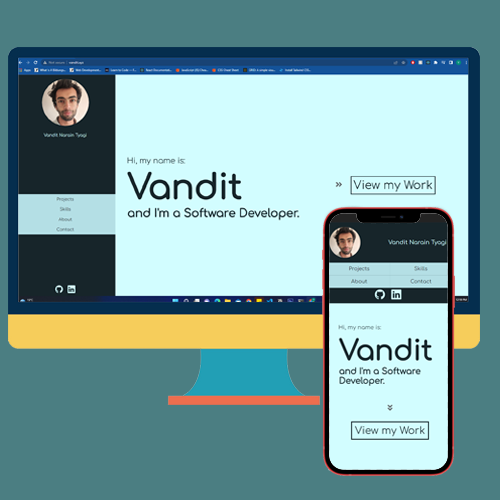
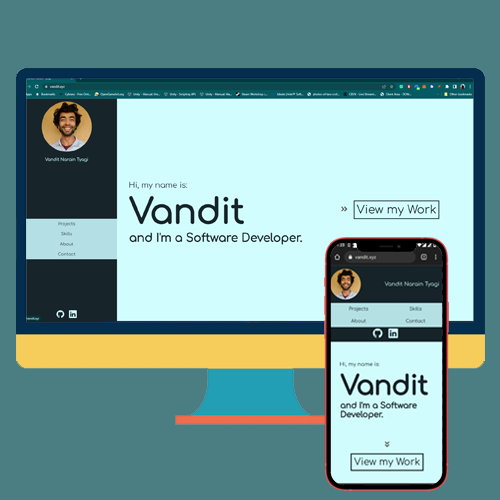
v1.0

diff --git a/public/index.html b/public/index.html
@@ -9,35 +9,15 @@
       name="description"
       content="Portfolio website Vandit Narain Tyagi"
     />
-    <link rel="apple-touch-icon" href="%PUBLIC_URL%/logo192.png" />
-    <!--
-      manifest.json provides metadata used when your web app is installed on a
-      user's mobile device or desktop. See https://developers.google.com/web/fundamentals/web-app-manifest/
-    -->
+    <link rel="apple-touch-icon" href="%PUBLIC_URL%/favicon.ico" />
+  
     <link rel="manifest" href="%PUBLIC_URL%/manifest.json" />
-    <!--
-      Notice the use of %PUBLIC_URL% in the tags above.
-      It will be replaced with the URL of the `public` folder during the build.
-      Only files inside the `public` folder can be referenced from the HTML.
-
-      Unlike "/favicon.ico" or "favicon.ico", "%PUBLIC_URL%/favicon.ico" will
-      work correctly both with client-side routing and a non-root public URL.
-      Learn how to configure a non-root public URL by running `npm run build`.
-    -->
+   
     <title>Vandit Narain Tyagi</title>
   </head>
   <body>
     <noscript>You need to enable JavaScript to run this app.</noscript>
     <div id="root"></div>
-    <!--
-      This HTML file is a template.
-      If you open it directly in the browser, you will see an empty page.
-
-      You can add webfonts, meta tags, or analytics to this file.
-      The build step will place the bundled scripts into the <body> tag.
-
-      To begin the development, run `npm start` or `yarn start`.
-      To create a production bundle, use `npm run build` or `yarn build`.
-    -->
+    
   </body>
 </html>

diff --git a/src/Components/About/index.js b/src/Components/About/index.js
@@ -10,7 +10,7 @@ function About() {
         <h1>Welcome to my story</h1>
         <div className='about-text'>
           <p>
-            I come from India. My passion for developing software started at a very early age. Video games fascinated me and I was curious how does it all go together behind the screen. It was the interactivity, that games provided, which hooked me.
+            I come from India. My passion for developing software started at a very early age. Video games fascinated me and I was curious about how it all goes together behind the screen. It was the interactivity that games provided which hooked me.
           </p>
           <p>
             Now I build all sorts of interactive media. My current tech stack includes React and Javascript. My pre-current tech stack had Unity and C# in it. Even before that, I freelanced by building Android applications in Java.
@@ -19,7 +19,7 @@ function About() {
             Currently, I'm based in my wife's hometown in Germany. And I'm looking for a <em>Frontend Developer</em> role.
           </p>
           <p>
-            With emotional intelligence and the ability to reflect on myself, I'll be a very good addition to your team! If I have peaked your interest, send me a message:
+            With emotional intelligence and the ability to reflect on myself, I'll be a very good addition to your team! If I have piqued your interest, send me a message:
           </p>
         </div>
         </div>

diff --git a/src/Components/Projects/index.scss b/src/Components/Projects/index.scss
@@ -114,16 +114,19 @@ $color5: #d2fdff;
       transform: translateY(-20px);
     }
     .project{
-      min-height: 77vh;
-      max-height: 77vh;
+      min-height: 84vh;
+      max-height: fit-content;
       p{
         ul{
           margin: 0;
           padding: 0 auto;
           li{
-            padding-top: 0.1rem;
+            padding-top: 0rem;
           }
         }
+      }
+      .technologies{
+        font-size: 0.77rem;
       }
     }
   }

diff --git a/src/Components/Projects/projectsData.js b/src/Components/Projects/projectsData.js
@@ -56,7 +56,7 @@ const tech = {
   images: [portfolio1, portfolio2],
   link: '',
   github: 'https://github.com/the-formless/react-portfolio',
-  description: ['A SPA built with React Native','Implements emailjs API', 'Styling with SASS', 'Responsive'],
+  description: ['A SPA built with React','Implements emailjs API', 'Styling with SASS', 'Responsive'],
   technologies: [tech.react, tech.js, tech.html, tech.sass],
   blog: '' 
   },

diff --git a/src/Components/Layout/index.scss b/src/Components/Layout/index.scss
@@ -16,7 +16,7 @@ $color5: #d2fdff;
   animation-delay: 99ms;
   animation-duration: 432ms;
   animation-fill-mode: forwards;
-  animation-timing-function: cubic-bezier(0,.72,.58,1.02);
+  animation-timing-function: cubic-bezier(1,.11,.2,.97);
 }
 @keyframes curtain-lift {
   0%{

diff --git a/src/Components/Layout/index.js b/src/Components/Layout/index.js
@@ -1,6 +1,6 @@
 import React from 'react'
 import './index.scss'
-import pic from '../../assets/CV.png'
+import pic from '../../assets/profile.png'
 import { Link, useLocation } from 'react-router-dom'
 import {BsGithub, BsLinkedin} from 'react-icons/bs'
 
